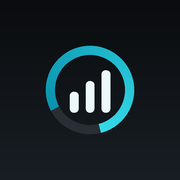
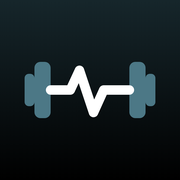
Carnet v1.16.1 : nouvelle icône (haltère cardio)
Claude-Session: https://claude.ai/code/session_012HAwjUs4AL7DLSdfz1P2Le

diff --git a/index.html b/index.html
@@ -7,8 +7,8 @@
 <meta name="color-scheme" content="dark light">
 <title>Carnet</title>
 <link rel="manifest" href="manifest.webmanifest" crossorigin="use-credentials">
-<link rel="apple-touch-icon" href="apple-touch-icon.png?v=1.16.0">
-<link rel="icon" type="image/png" href="icon-192.png">
+<link rel="apple-touch-icon" href="apple-touch-icon.png?v=1.16.1">
+<link rel="icon" type="image/png" href="icon-192.png?v=1.16.1">
 <meta name="apple-mobile-web-app-capable" content="yes">
 <meta name="apple-mobile-web-app-status-bar-style" content="black-translucent">
 <meta name="apple-mobile-web-app-title" content="Carnet">
@@ -779,7 +779,7 @@ function hlong(s){s=Math.round(s/60);var h=Math.floor(s/60),m=s%60;
 function nfmt(v){return (Math.round(v*10)/10).toString().replace('.',',')}
 
 /* ================= STATE ================= */
-var KEY='carnet-v1', SCHEMA=15, VERSION='1.16.0';
+var KEY='carnet-v1', SCHEMA=15, VERSION='1.16.1';
 var SEED=[
  ['Développé couché','Pecs','kg',150,2.5],['Développé incliné','Pecs','kg',150,2.5],['Chest press','Pecs','kg',120,5],
  ['Strict press','Épaules','kg',150,2.5],['Pompes','Pecs','bw',90,0],['Dips','Pecs','bw',120,2.5],
@@ -1679,7 +1679,9 @@ function promptFallback(t){ openSheet('<h2>Séance</h2><div style="height:10px">
 /* ================= ONBOARDING ================= */
 var KONB='carnet-onb', KVER='carnet-ver';
 /* Registre des nouveautés : une entrée par version, la plus récente en tête. [pictogramme, titre, texte] */
-var NEWS=[{v:'1.16.0',l:[
+var NEWS=[{v:'1.16.1',l:[
+  ['dumbbell','Nouvelle icône','Un haltère dont la barre est un tracé cardio : renfo et cardio réunis. Sur iPhone, l\'écran d\'accueil garde l\'ancienne icône tant que l\'app n\'est pas réinstallée.']]},
+ {v:'1.16.0',l:[
   ['curl','Pictogrammes corrigés','Curl, upright row, extension triceps, rowing unilatéral et crunch machine avaient un mauvais dessin. C\'est réglé.'],
   ['cablefly','11 mouvements en plus','Curl, upright row, écarté poulie, oiseau, extension nuque, rowing unilatéral, triceps poulie, hip thrust, soulevé de terre, shrug, crunch machine.'],
   ['kbswing','Mini animations','L\'exercice en cours et la fiche exercice montrent le mouvement complet. Statique si tu réduis les animations sur ton téléphone.']]},
@@ -1733,7 +1735,7 @@ var STEPS={
 };
 function vOnb(){
   var h='<div class="onb" id="onb">';
-  h+='<img class="ic" src="icon-192.png" alt="">';
+  h+='<img class="ic" src="icon-192.png?v=1.16.1" alt="">';
   if(ONB==='maj'||ONB==='news'){
     var old='';if(ONB==='maj'){try{old=localStorage.getItem(KVER)||''}catch(e){}}
     var nw=NEWS[0];

diff --git a/sw.js b/sw.js
@@ -1,4 +1,4 @@
-const V='carnet-v1.16.0';
+const V='carnet-v1.16.1';
 const ASSETS=['./','./index.html','./manifest.webmanifest','./icon-192.png','./icon-512.png','./apple-touch-icon.png'];
 self.addEventListener('install',e=>{self.skipWaiting();e.waitUntil(caches.open(V).then(c=>c.addAll(ASSETS).catch(()=>{})))});
 self.addEventListener('activate',e=>{e.waitUntil(caches.keys().then(k=>Promise.all(k.filter(x=>x!==V).map(x=>caches.delete(x)))).then(()=>self.clients.claim()))});
